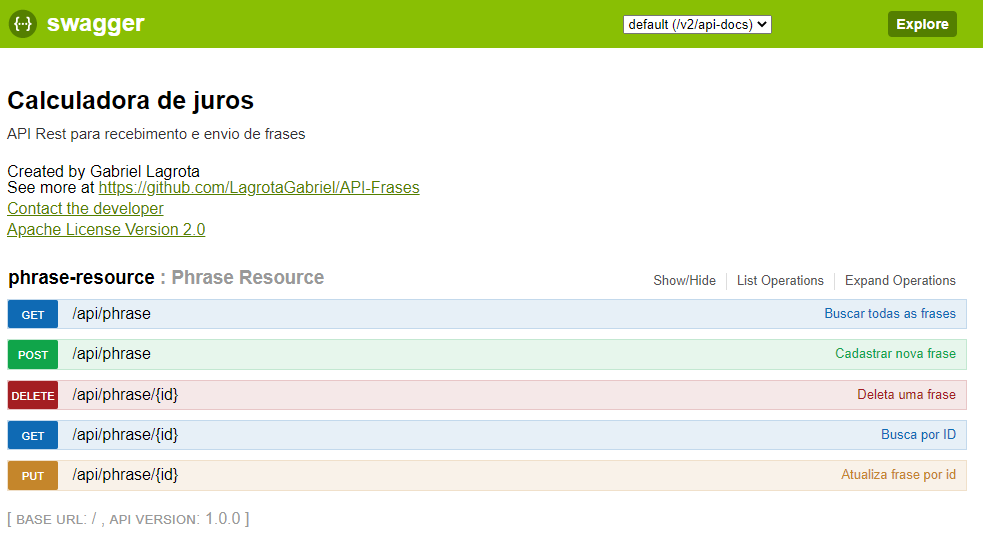
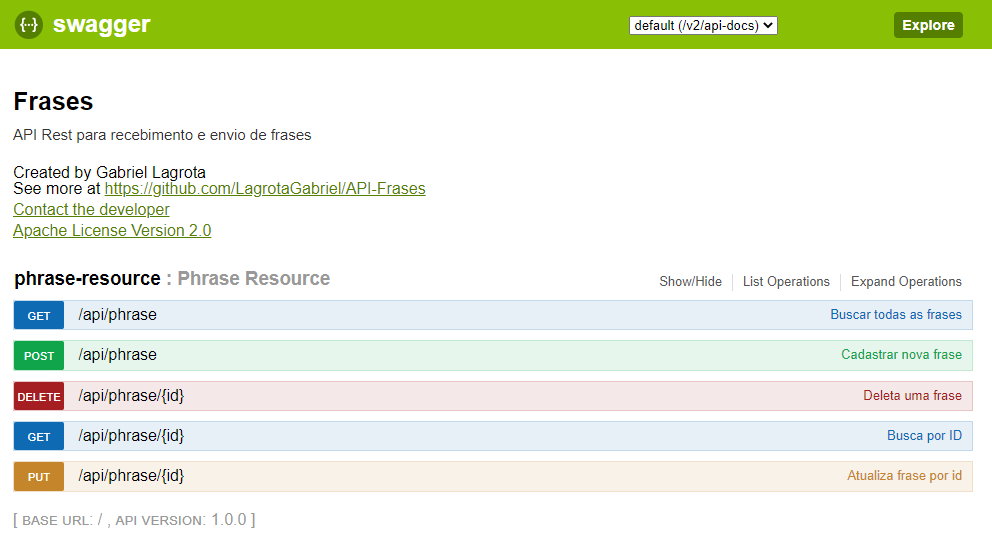
Ajustes

diff --git a/src/main/java/br/com/frases/config/SwaggerConfig.java b/src/main/java/br/com/frases/config/SwaggerConfig.java
@@ -36,7 +36,7 @@ public class SwaggerConfig {
 
     private ApiInfo metaInfo(){
         ApiInfo apiInfo = new ApiInfo(
-                "Calculadora de juros",
+                "Frases",
                 "API Rest para recebimento e envio de frases",
                 "1.0.0",
                 "Terms of Service",
